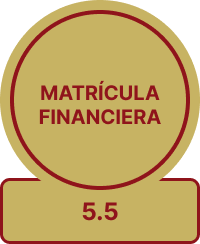
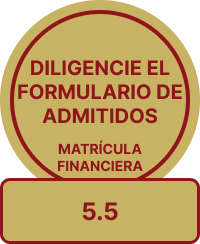
diligenciar formulario de inscripcion

Changed region(s): [[0.09, 0.2295, 0.93, 0.5164], [0.18, 0.6598, 0.81, 0.8033], [0.27, 0.5738, 0.72, 0.6311]]

diff --git a/src/app/app.ts b/src/app/app.ts
@@ -865,8 +865,15 @@ Los aspirantes al Programa de Licenciatura en Educación Artística deberán pre
         </div>
       `,
       'financiera': `
-        <h3 class="text-xl font-usco-condensed-bold mb-4 text-usco-vino">5.5 Matrícula Financiera</h3>
+        <h3 class="text-xl font-usco-condensed-bold mb-4 text-usco-vino">5.5 Diligencie el Formulario de Admitidos: Matrícula Financiera</h3>
         <div class="space-y-4 text-usco-gris-dark font-usco">
+          
+          <div class="flex justify-center my-6">
+            <a href="https://gaitana.usco.edu.co/inscripciones_pregrado_documentos/login" target="_blank" class="bg-usco-vino hover:bg-usco-vino-dark text-white font-usco-bold text-2xl px-16 py-6 rounded-lg transform transition-all duration-300 hover:scale-105 hover:shadow-2xl">
+              DILIGENCIE AQUÍ
+            </a>
+          </div>
+          
           <p>Documentación requerida para la liquidación de Matrícula, cronograma y fechas de pago.</p>
           
           <div class="bg-usco-vino-pale p-4 rounded-lg border-l-4 border-usco-vino">

diff --git a/src/app/app.html b/src/app/app.html
@@ -411,7 +411,7 @@
                   [ngClass]="activeIcon() === 'financiera' ? 
                     'bg-usco-vino text-white border-usco-vino shadow-lg' : 
                     'bg-white text-usco-gris border-usco-gris-lighter hover:bg-usco-ocre hover:text-black hover:border-usco-ocre'">
-            <div class="font-usco-bold text-lg">5.5 Matrícula Financiera</div>
+            <div class="font-usco-bold text-lg">5.5 Diligencie el Formulario de Admitidos: Matrícula Financiera</div>
           </button>
           
           <!-- Matrícula Académica Button -->
